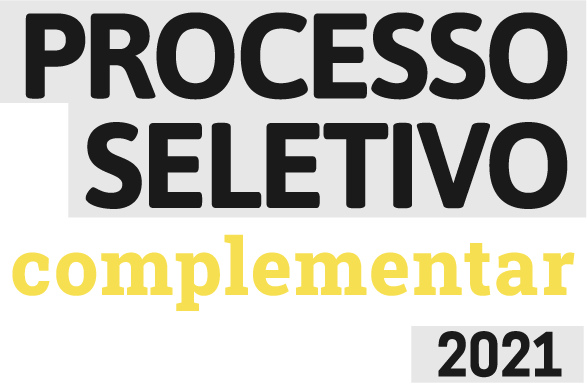
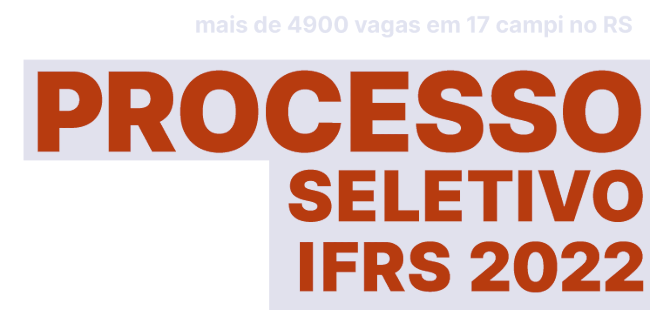
Ajuste nas imagens de cabeçalho

diff --git a/sass/blocks/_header.scss b/sass/blocks/_header.scss
@@ -15,18 +15,9 @@
 
     &__foto {
         margin: 20px 25px 0 25px;
-        max-width: 25%;
-        flex: 0 0 25%;
+        max-width: 20%;
+        flex: 0 0 20%;
         align-self: flex-end;
-
-        @include media-breakpoint-down(md) {
-            display: none;
-        }
-    }
-
-    &__ifrs {
-        flex: 0 0 10%;
-        align-self: center;
 
         @include media-breakpoint-down(lg) {
             display: none;
@@ -35,8 +26,11 @@
 
     &__link {
         display: inline-block;
-        margin-bottom: 20px;
-        padding: 20px 0;
+        margin-bottom: 1rem;
+
+        @include media-breakpoint-up(lg) {
+            margin-bottom: 3rem;
+        }
 
         &:hover {
             text-decoration: none;

diff --git a/header.php b/header.php
@@ -39,7 +39,7 @@
         <section class="container header">
             <div class="header__principal">
                 <a href="<?php echo esc_url( home_url( '/' ) ); ?>" class="header__link">
-                    <img src="<?php header_image(); ?>" width="400" height="261" alt="<?php bloginfo('name'); ?> - Ir para P&aacute;gina Inicial" class="img-fluid"/>
+                    <img src="<?php header_image(); ?>" width="650" height="310" alt="<?php bloginfo('name'); ?> - Ir para P&aacute;gina Inicial" class="img-fluid"/>
                 </a>
                 <div class="header__social">
                     <ul class="menu-social">
@@ -80,10 +80,7 @@
                 </div>
             </div>
             <div class="header__foto">
-                <img src="<?php echo get_stylesheet_directory_uri(); ?>/img/header-foto.png" width="385" height="567" alt="" class="img-fluid" aria-hidden="true"/>
-            </div>
-            <div class="header__ifrs">
-                <img src="<?php echo get_stylesheet_directory_uri(); ?>/img/header-ifrs.png" width="174" height="248" alt="" class="img-fluid" aria-hidden="true"/>
+                <img src="<?php echo get_stylesheet_directory_uri(); ?>/img/header-foto.png" width="350" height="660" alt="" class="img-fluid" aria-hidden="true"/>
             </div>
         </section>
     </header>
